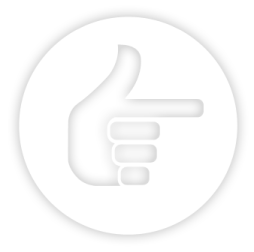
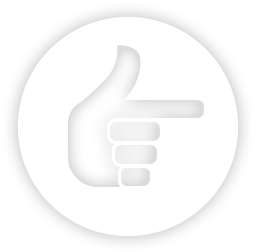
Bug 1019184 - [Flame] Fuzzy Images in FTE

diff --git a/apps/ftu/style/style.css b/apps/ftu/style/style.css
@@ -1173,12 +1173,13 @@ html[dir="rtl"] [data-type="list"].pack-value-selector li label:not([for]) input
 */
 
 .tutorial-screen-base {
-    z-index: 200;
+  z-index: 200;
 }
 
 .fxa-logo {
   background-image: url('images/fxa_logo.png');
   background-repeat: no-repeat;
+  background-size: 16.4rem auto;
   margin: 3rem auto 0;
   width: 17rem;
   height: 17.5rem;
